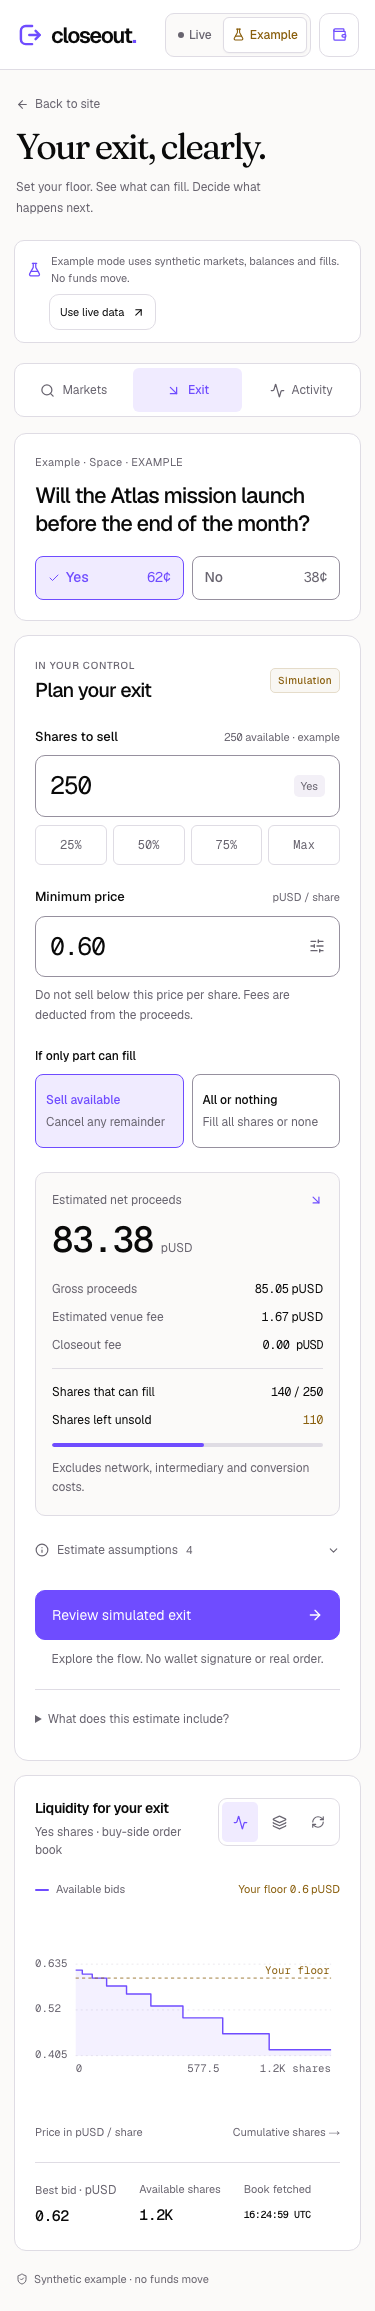
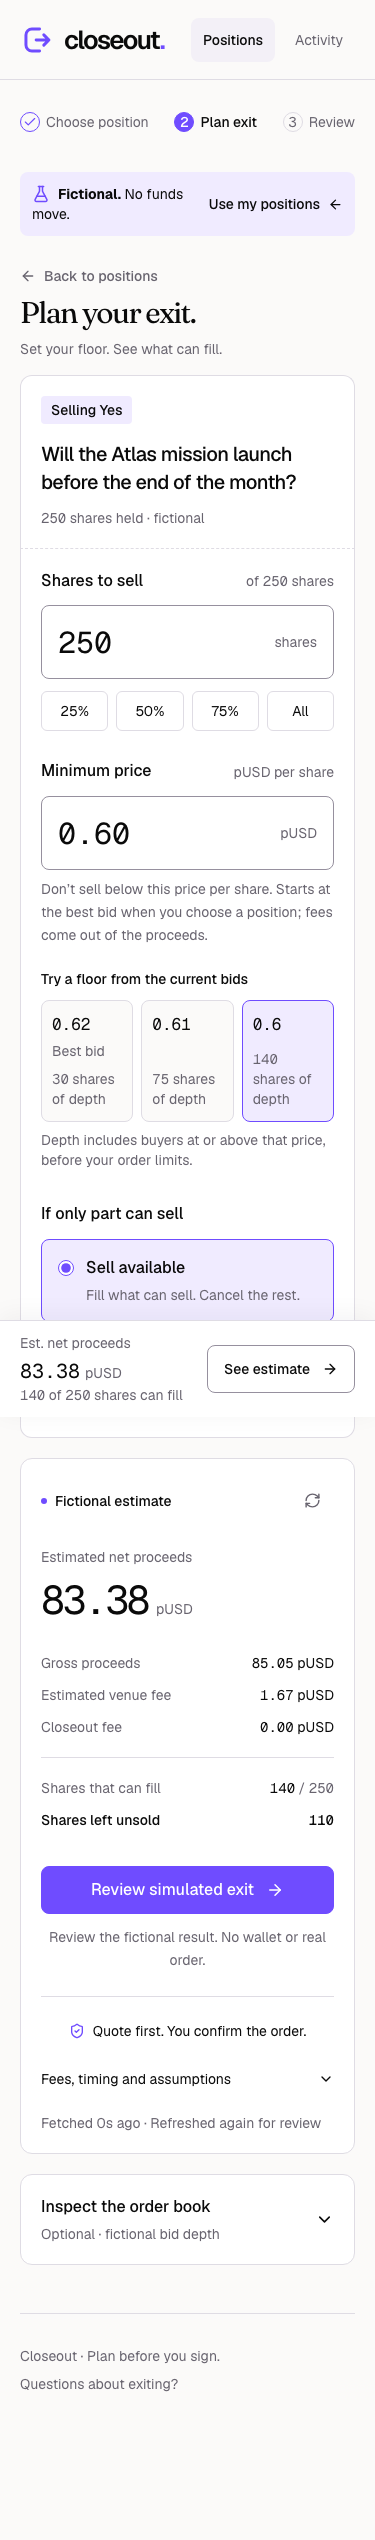
docs: explain the position-first workflow and refresh screenshots

diff --git a/docs/architecture.md b/docs/architecture.md
@@ -1,12 +1,12 @@
 # Closeout architecture
 
-This document describes the implementation in this repository as of September 12, 2026. Closeout helps an existing Polymarket account holder inspect bid depth, plan a sell within a gross price floor, and follow the order’s state. The product site explains that workflow; `/app` contains it.
+This document describes the implementation in this repository as of September 12, 2026. Closeout starts with an existing Polymarket position: import a public portfolio, choose what to sell, inspect bid depth, set a gross price floor, then review and follow the order’s state. The product site explains that workflow; `/app` contains it.
 
 Public reads, fictional examples and opening the wallet chooser have been exercised. End-to-end owner authentication and a real trade remain unverified. Implemented safeguards and mocked service tests do not establish successful live execution, final net proceeds or measured user savings.
 
 ## High-level design
 
-Closeout is one Next.js application with server-rendered product pages, a client-side workspace and three public-data route handlers. It has no application database, background worker, server order endpoint or Closeout smart contract.
+Closeout is one Next.js application with server-rendered product pages, a client-side workspace and four public-data route handlers. It has no application database, background worker, server order endpoint or Closeout smart contract.
 
 ```mermaid
 flowchart TB
@@ -16,7 +16,7 @@ flowchart TB
   UI["/app<br/>ExitWorkspace"]
   Hook["useExitWorkspace<br/>Selection, review, lifecycle orchestration"]
   Math["Pure exit model<br/>Decimal bid sweep + fee estimate"]
-  ReadAPI["Next GET routes<br/>markets / book / positions"]
+  ReadAPI["Next GET routes<br/>profile / positions / markets / book"]
   Sources["Public Polymarket providers<br/>Gamma / CLOB / Data API"]
   Wallet["Owner wallet<br/>Privy chooser or injected provider"]
   Session["Browser TradingSession<br/>Owner and account preflight"]
@@ -48,11 +48,12 @@ The server supplies public information, not trade authority. Authenticated venue
 | [ExitPreview](../src/components/exit-preview.tsx) | A small client interaction using the fictional Atlas book and the same quote calculation as the workspace. It does not authorize orders. |
 | [/app layout](../src/app/app/layout.tsx) | Mounts wallet infrastructure only within the trading destination. |
 | [/app page](../src/app/app/page.tsx) | Selects `example` only for the explicit `mode=example` value; otherwise selects `live`. A keyed [TradingWorkspace](../src/components/trading-workspace.tsx) initializes the controller. |
+| [/api/profile](../src/app/api/profile/route.ts) | Resolves a supported public profile input or connected-wallet address to a public position account. It does not establish ownership. |
 | [/api/markets](../src/app/api/markets/route.ts) | Public discovery, search or exact condition lookup. |
 | [/api/book](../src/app/api/book/route.ts) | Public book and market metadata, bound to a requested condition and outcome token. |
 | [/api/positions](../src/app/api/positions/route.ts) | Read-only positions for a public account address. |
 
-All three API routes are Node-runtime, GET-only, dynamic and `no-store`. They return input errors as 400 and upstream/normalization failures as 502. There is no server signing, approval, funding or order-placement route.
+All four API routes are Node-runtime, GET-only, dynamic and `no-store`. They return input errors as 400 and upstream/normalization failures as 502; profile resolution also returns an actionable 404 when no supported unique mapping can be established. There is no server signing, approval, funding or order-placement route.
 
 The shared theme lives in [globals.css](../src/app/globals.css). Tailwind CSS v4 utilities and `@apply` handle layout, spacing, typography and responsive rules; referenced component styles retain token-based illustrations and specific interaction selectors. Public-page client islands are limited to navigation and the local example. Loading the explanatory pages does not mount the `/app` wallet provider.
 
@@ -63,7 +64,9 @@ The shared theme lives in [globals.css](../src/app/globals.css). Tailwind CSS v4
 | Module | Owns | Does not own |
 | --- | --- | --- |
 | [types.ts](../src/lib/types.ts) | UI DTOs: `Market`, `OrderBook`, `Position`, `ExitQuote`, `TrackedOrder`, `WorkspaceController`. | Provider parsing, wallet authority or arithmetic. |
+| [account-profile.ts](../src/lib/account-profile.ts) | `AccountProfile`, input parsing, exact public-profile resolution and fixed-origin Gamma reads. | Ownership proof, session creation or guessing a proxy from an owner address. |
 | [public-data.ts](../src/lib/public-data.ts) | Fixed-origin fetches, query validation, exact numeric parsing, provider-to-DTO normalization, source identity checks. Its fetcher is injectable. | Authentication, trading or automatic source substitution. |
+| [recent-profile.ts](../src/lib/recent-profile.ts) | A validated, optional bookmark for the last successfully loaded public account. | Restoring positions, a trusted account mapping, a wallet connection or trade authority. |
 | [exit-plan.ts](../src/lib/exit-plan.ts) | Pure, non-mutating decimal bid sweep, fee model, order-type semantics and caller-supplied freshness policy. | Network, clock reads, wallet state, signatures or settlement assertions. |
 | [quote.ts](../src/lib/quote.ts) | Maps the domain plan into `ExitQuote`; applies the workspace’s age, tick, size, share-precision and accepting-orders checks. | Enforcing an after-fee receipt at the venue. |
 | [wallet-provider.tsx](../src/components/wallet-provider.tsx) | `TradingWalletContext`, explicit connection, Polygon selection, provider access and account/network invalidation. | Inferring that an arbitrary loaded portfolio is owned by the connected signer. |
@@ -71,7 +74,10 @@ The shared theme lives in [globals.css](../src/app/globals.css). Tailwind CSS v4
 | [order-status.ts](../src/lib/order-status.ts) | Pure reconciliation of a saved order against venue order/trade identities and confirmed quantities. | Treating acceptance as settlement or computing final net proceeds. |
 | [order-history.ts](../src/lib/order-history.ts) | Validation and bounded compaction of saved live-order records. | Storage transport, cross-tab locking or remote backup. |
 | [use-exit-workspace.ts](../src/hooks/use-exit-workspace.ts) | Orchestration: selection, data loading, review state, account session, persistence, polling, errors and export. Returns the screen controller. | Rendering or changing the venue’s execution semantics. |
-| [ExitWorkspace](../src/components/exit-workspace.tsx) | Responsive presentation, labeled inputs, depth view, dialogs and controller callbacks. | Direct SDK trading calls. |
+| [ExitWorkspace](../src/components/exit-workspace.tsx) | Entry/portfolio/plan/activity navigation and deliberate connection intent. | Account resolution, arithmetic or direct SDK trading calls. |
+| [journey/onboarding.tsx](../src/components/journey/onboarding.tsx) | Wallet/public-profile entry, portfolio states and position selection. | Inferring trade authority from public holdings. |
+| [journey/exit-planner.tsx](../src/components/journey/exit-planner.tsx) | Amount/floor controls, depth ladder, cost breakdown and next-action presentation. | Reserving liquidity or placing an order. |
+| [journey/review-dialog.tsx](../src/components/journey/review-dialog.tsx), [activity-view.tsx](../src/components/journey/activity-view.tsx), [primitives.tsx](../src/components/journey/primitives.tsx) | Review disclosure, order evidence and shared display primitives. | Authenticated venue access or settlement reconciliation. |
 
 ### Data contracts that carry financial meaning
 
@@ -84,13 +90,26 @@ The shared theme lives in [globals.css](../src/app/globals.css). Tailwind CSS v4
 
 ### Public read and planning flow
 
-1. The controller fetches market discovery/search, then a condition-bound outcome book. Request counters, abort handling and context keys prevent late results from updating a different selection or account.
-2. `public-data.ts` validates market, condition and token membership; book and metadata must agree on tick and minimum size. Duplicate levels, crossed books, conflicting market copies and mismatched positions fail instead of silently producing a quote.
-3. Provider requests use fixed origins/paths, omitted credentials, rejected redirects and a 12-second timeout. Response text is checked against a size limit before parsing; this is not a streaming body-size limiter.
-4. The model sorts a copy of eligible bids, consumes highest prices first and estimates the supplied fee per consumed level. `quote.ts` adds a 15-second maximum fetch age, minimum order size, allowed tick, nonzero floor and at most two decimals for shares.
-5. The visible book refreshes every 10 seconds while the document is visible, except during review or submission. The UI’s age clock updates every second. Review obtains a fresh book; an old preview never reserves liquidity.
+1. Live mode opens at portfolio entry, with no selected market or prefilled share amount. A user can connect an existing wallet to find its public account, or enter a Polymarket profile URL, handle or account address without connecting. Example mode opens a clearly fictional portfolio; it also requires an explicit position selection.
+2. `/api/profile` resolves the input before `/api/positions` reads that account's holdings. Profile errors and position-fetch errors are separate. Manual text remains intact for correction or retry; `resolvedInput` binds the normalized original entry to the account that it resolved, rather than requiring a profile URL to equal an address.
+3. Selecting a position looks up its condition, checks outcome-token membership and requests the matching book. The amount starts from that position's shares, rounded down to supported precision. Once bids arrive, an empty floor is initialized to the highest bid. A refresh preserves an edited floor. Redeemable positions link to venue redemption instead of open-market selling.
+4. `public-data.ts` validates market, condition and token membership; book and metadata must agree on tick and minimum size. Duplicate levels, crossed books, conflicting market copies and mismatched positions fail instead of silently producing a quote.
+5. The model sorts a copy of eligible bids, consumes highest prices first and estimates the supplied fee per consumed level. `quote.ts` adds a 15-second maximum fetch age, minimum order size, allowed tick, nonzero floor and at most two decimals for shares.
+6. The visible book refreshes every 10 seconds while the document is visible, except during review or submission. The UI's age clock updates every second. Review obtains a fresh book; a preview never reserves liquidity.
 
-Default discovery returns up to 40 markets. Public positions expose the first 100 supported rows with `hasMore`; the UI reports truncation. Redeemable positions are directed to venue redemption rather than submitted as open-market sells.
+Public positions expose the first 100 supported rows with `hasMore`; the UI reports truncation. The market endpoint also supports discovery/search, including up to 40 discovery results, but the position-first screen does not automatically select a discovery market on entry.
+
+#### Profile resolution and request identity
+
+For a connected wallet, Gamma must return a valid public profile mapping. The adapter never substitutes the signer EOA when that mapping is absent. For a manually entered raw address, a genuine upstream 404 permits reading that exact address with `resolvedFromProfile=false`; an upstream error or malformed successful response does not. Handles and profile URLs require one exact case-insensitive name match in a complete bounded search result, followed by a matching profile lookup. Conflicting mappings, fuzzy results and incomplete search pages are rejected. A mapping to a different address is also checked against that account's own profile. These are provider consistency checks, not cryptographic ownership proof.
+
+Both public adapters use fixed origins/paths, omitted credentials, rejected redirects and a 12-second timeout per upstream request. `account-profile.ts` enforces a streamed body-size bound. `public-data.ts` checks response text against a size limit before parsing; it is not a streaming body-size limiter. Arbitrary user-supplied URLs are never fetched.
+
+The controller keeps public and execution contexts separate. A book request is bound to mode, condition and outcome token, so connecting a signer does not discard an otherwise-current public read. Manual profile/position requests and position selection are likewise independent of signer changes. A connected-wallet lookup additionally checks that the initiating signer remains current. Request generations invalidate superseded inputs, mode changes and selections. While a position is loading, review and step navigation are blocked. Live review still binds the complete mode, token, signer, account and order-input context.
+
+#### Recent-profile preference
+
+After a successful portfolio load, `closeout-recent-profile-v1` stores only the account address and optional display labels in browser `localStorage`. Resuming it performs a fresh public profile and positions lookup. It does not restore holdings, a session, a selected plan or authority, and the user can forget it. Invalid or unavailable preference storage is ignored; it does not share the fail-closed contract of live order-history storage.
 
 ### Review, authorization and submission
 
@@ -155,7 +174,7 @@ Compaction retains every unresolved record and fills the remaining capacity with
 
 | Boundary | Enforced behavior and practical limit |
 | --- | --- |
-| Public address → authority | Portfolio lookup never authorizes a trade. Owner signer and account relationship are checked separately. |
+| Public profile/address → authority | Imported holdings and saved profile labels never authorize a trade. Owner signer and account relationship are checked separately. |
 | Provider response → financial model | Runtime normalization checks identity, precision and constraints. A recent fetch still cannot prove future liquidity or feed completeness. |
 | Review → order | Reviewed input/context and age are checked, then an explicit signed sell is submitted. The gross floor is not an all-in net-return guarantee. |
 | Browser → venue | Geography is checked from the user’s browser. Blocked or unknown status disables submission; the server does not reroute orders. |
@@ -179,6 +198,6 @@ Useful next extensions are narrowly defined: paginate positions without hiding c
 
 ## Verification and code navigation
 
-The relevant tests are colocated with the financial boundaries: [exit-plan tests](../src/lib/exit-plan.test.ts), [quote tests](../src/lib/quote.test.ts), [provider normalization tests](../src/lib/public-data.test.ts), [trading-service tests](../src/lib/trading-client.test.ts), [reconciliation tests](../src/lib/order-status.test.ts) and [history tests](../src/lib/order-history.test.ts). Service tests mock wallet/SDK interactions; they do not prove a live wallet or trade.
+The relevant tests are colocated with the boundaries: [profile resolution tests](../src/lib/account-profile.test.ts), [exit-plan tests](../src/lib/exit-plan.test.ts), [quote tests](../src/lib/quote.test.ts), [provider normalization tests](../src/lib/public-data.test.ts), [trading-service tests](../src/lib/trading-client.test.ts), [reconciliation tests](../src/lib/order-status.test.ts) and [history tests](../src/lib/order-history.test.ts). Service tests mock wallet/SDK interactions; they do not prove a live wallet or trade.
 
 With a local server already running, [browser-smoke.mjs](../scripts/browser-smoke.mjs) exercises the explicit example, selected failure states and responsive workspace; [privy-smoke.mjs](../scripts/privy-smoke.mjs) checks the real chooser without selecting or authenticating a wallet; [site-smoke.mjs](../scripts/site-smoke.mjs) checks the public journey and example entry. See [verification](verification.md) for dated results and their scope. `npm test`, `npm run typecheck` and `npm run build` are the project checks; current outputs belong in verification evidence rather than permanent architecture claims.

diff --git a/docs/execution-integration.md b/docs/execution-integration.md
@@ -1,6 +1,6 @@
 # Execution integration
 
-The [/app workspace](https://closeout-ashen.vercel.app/app) reads public markets and plans a sell exit without authentication. Live execution uses an existing owner-controlled Polymarket account, an explicit review and the connected wallet. Example mode is separate and produces fictional activity only.
+The [/app workspace](https://closeout-ashen.vercel.app/app) starts with a public portfolio, then lets the user choose a position and plan a sell exit. Public lookup and planning need no authentication. Live execution uses an existing owner-controlled Polymarket account, an explicit review and the connected wallet. Example mode starts with a fictional portfolio and produces fictional activity only.
 
 Actual wallet authentication, signatures, live order submission, cancellation, approvals and funded execution remain unvalidated. The implementation has fixture coverage; public reads and the real Privy chooser have separate browser checks. Final live net proceeds remain unreconciled. See [verification](verification.md).
 
@@ -15,24 +15,42 @@ Two details depend on the pinned runtime:
 - `AssetType` comes from `@polymarket/bindings/clob`; importing it from the client package's declarations did not provide a usable runtime export. Balance reads use `fetchBalanceAllowance` from the client's actions package.
 - `resolveExitExchange` follows the pinned SDK's token-namespace and negative-risk selector for its three exchange routes. It validates addresses from the runtime production configuration and fails closed if that configuration changes. It has no hardcoded fallback address.
 
+## Public account discovery
+
+The [profile route](../src/app/api/profile/route.ts) accepts `input` and `source=manual|wallet`, returning `{profile: {accountAddress, displayName, username, resolvedFromProfile}}`. Its [adapter](../src/lib/account-profile.ts) makes credential-free requests only to fixed Gamma endpoints. It does not create a secure SDK client.
+
+| Entry | Resolution rule |
+| --- | --- |
+| Connected-wallet address, `source=wallet` | A valid public profile mapping is required. Missing mapping is an actionable error, never a fallback to the signer address. |
+| Manual account address | Use the verified provider mapping when available. Only a genuine profile 404 allows lookup of the exact entered address with `resolvedFromProfile=false`. |
+| Manual handle or `polymarket.com/@profile` URL | Require exactly one case-insensitive name match in a complete bounded search result, then verify the matching account through its public profile. Ambiguous, partial or conflicting results require an account address instead. |
+
+Gamma's raw profile field is `proxyWallet`; the pinned SDK calls its normalized field `wallet`. Closeout reads the raw field and validates provider consistency. This naming distinction does not establish whether the connected signer owns that account. See the official [public-profile endpoint](https://docs.polymarket.com/api-reference/profiles/get-public-profile-by-wallet-address) and [search endpoint](https://docs.polymarket.com/api-reference/search/search-markets-events-and-profiles).
+
+After resolution, `/api/positions` loads public holdings. Selecting a position resolves its market through `/api/markets` and its outcome book through `/api/book`. These four GET routes do not sign or submit. Manual input remains the original profile string; `resolvedInput` binds that normalized entry to the resolved account, including when a later positions request fails. A recent-profile bookmark stores only a public address and labels; resuming it performs a fresh lookup.
+
+Public reads can continue independently of the signer. A connected-wallet lookup is tied to the initiating wallet, while a manually imported portfolio is not replaced merely because another wallet connects for review. An imported account can be inspected without being tradable by that signer.
+
 ## Account authorization
 
-A public position lookup accepts an account address; it does not establish execution authority. Session creation checks the connected signer on Polygon, verifies deployed code when the account differs from the signer, and requires the SDK to resolve the exact account/signer pair as `OWNER`. Session-key mappings are unsupported.
+Session creation checks the connected signer on Polygon, verifies deployed code when the account differs from the signer, and requires the SDK to resolve the exact account/signer pair as `OWNER`. Session-key mappings are unsupported. A successful public profile lookup does not satisfy this check.
 
 The adapter supplies the existing account explicitly and rejects SDK `sendTransaction` requests. Closeout does not deploy account wallets or grant missing trading approvals. The user must complete those prerequisites on the venue. See the [official wallet and authentication model](https://docs.polymarket.com/trading/wallets-auth).
 
-The [wallet provider](../src/components/wallet-provider.tsx) supports Privy external wallets or an injected provider. Authentication happens only through an explicit review action and may request a signature. Account, chain or disconnect events invalidate the session. The adapter rechecks the account and Polygon chain after signing, before submission. Credentials remain within the in-memory session.
+The [wallet provider](../src/components/wallet-provider.tsx) supports Privy external wallets or an injected provider. Connection opens the wallet chooser directly; it is separate from venue authentication. The current connection flow selects Polygon and can request a network switch. Venue authentication happens only through an explicit review action and may request a signature. Account, chain or disconnect events invalidate the session. The adapter rechecks the account and Polygon chain after signing, before submission. Credentials remain within the in-memory session.
 
 ## Review and submission flow
 
-1. Public market, book and fee data produce an indicative quote through the [quote engine](../src/lib/quote.ts).
-2. Review authenticates the owner session, reads available holdings and approvals, fetches fresh public inputs and rebuilds the quote.
+1. The user selects an imported or sample position. Its shares initialize the amount at supported precision; the first book initializes an empty floor to the best bid. The user can edit either. There is no automatically selected market or arbitrary initial trade size.
+2. Public book and fee data produce an indicative quote through the [quote engine](../src/lib/quote.ts). Review is blocked while position selection is pending. Live review authenticates the owner session, reads available holdings and approvals, fetches fresh public inputs and rebuilds the quote.
 3. Confirmation checks that the selected market, inputs and wallet context still match the review. A quote older than 15 seconds must be reviewed again; age uses fetch time rather than the last time the book changed.
 4. The [workspace controller](../src/hooks/use-exit-workspace.ts) acquires an account execution lock and saves an intent before a live submission.
 5. The adapter checks geographic eligibility from the user's browser, current unreserved shares, approvals, minimum order size and tick alignment. It creates and signs a `SELL` market order with the share quantity, minimum price and FAK or FOK mode, then posts once.
 6. Activity retains the response and reconciles the exact order and related trades. An accepted response is not treated as confirmed settlement.
 
 The minimum price is a gross price per share, not a guaranteed final net receipt. FAK permits an immediate partial fill and cancels the unfilled remainder; FOK requires the full quantity or no fill. Closeout does not expose resting GTC/GTD orders. See [official order semantics](https://docs.polymarket.com/trading/place-orders) and [exit math](exit-math.md).
+
+Public book requests are keyed by mode, condition and outcome token. Review and confirmation retain the stronger mode/token/signer/account binding plus exact amount, floor and order type. Changes invalidate the reviewed plan rather than transferring permission to the newly selected position.
 
 ## Financial checks
 

diff --git a/README.md b/README.md
@@ -10,7 +10,7 @@
 
 The market price is a single number. Selling your whole position is a different question.
 
-**Closeout helps Polymarket traders see what could sell, what fees take, and what stays unsold.** Read the bids, choose a minimum price per share, and review an exit from the wallet that owns your position.
+**Closeout helps Polymarket traders see what could sell, what fees take, and what stays unsold.** Bring your public portfolio, choose a position, and see an exit plan before authorizing an order.
 
 [Website](https://closeout-ashen.vercel.app) · [Open app](https://closeout-ashen.vercel.app/app) · [Try an example](https://closeout-ashen.vercel.app/app?mode=example) · [How it works](https://closeout-ashen.vercel.app/how-it-works)
 
@@ -22,13 +22,18 @@ A displayed price does not tell you how much of a position can fill at that pric
 
 | Step | What you get |
 | --- | --- |
-| **Find your position** | Search live markets or inspect an account's public holdings. |
-| **Set your floor** | Choose shares to sell and a minimum gross price per share. |
+| **Bring your portfolio** | Connect the wallet you use with Polymarket, or paste a public profile link or account address. |
+| **Choose a position** | Start with the shares actually held. Public lookup needs no signature. |
+| **Set your floor** | Begin at the current best bid. Adjust the share amount or minimum gross price deliberately. |
 | **See the tradeoff** | Estimated proceeds, venue fees, fillable shares and shares left unsold. |
 | **Choose the behavior** | Sell available shares at your floor, or require the entire quantity to fill. |
 | **Review and follow** | Refresh the plan, authorize from the owner wallet, and track the order's outcome. |
 
-The homepage includes a working preview powered by the same decimal quote engine as the app. Change the floor and the eligible depth changes with it.
+The app opens with portfolio lookup, not a prefilled order. Errors stay beside the editable input; a recently viewed public profile can be looked up again on the next visit. A separate sample journey lets anyone try the planner without a wallet.
+
+![Closeout asks for a wallet or public Polymarket profile before loading positions](docs/images/onboarding.png)
+
+The homepage also includes a working preview powered by the same decimal quote engine. Change the floor and the eligible depth changes with it.
 
 <details open>
 <summary><strong>The exit workspace</strong></summary>
@@ -48,7 +53,7 @@ In this **fictional example**, 250 shares at a 0.60 pUSD floor have 140 shares o
 
 ## Architecture
 
-The public website explains the product without initializing a wallet. The trading workspace has its own provider boundary. Three server routes read public market data; signing and order submission happen in the browser.
+The public website explains the product without initializing a wallet. The trading workspace has its own provider boundary. Four server routes read public identity and market data; signing and order submission happen in the browser.
 
 ```mermaid
 flowchart TB
@@ -56,7 +61,7 @@ flowchart TB
   PREVIEW["Interactive example"]
   APP["Exit workspace /app"]
   QUOTE["Decimal quote engine"]
-  API["Public GET routes<br/>Markets · Book · Positions"]
+  API["Public GET routes<br/>Profile · Positions · Markets · Book"]
   DATA["Venue public APIs"]
   WALLET["Existing owner wallet"]
   TRADE["Preflight · Sign · Submit"]
@@ -112,7 +117,7 @@ npm ci
 npm run dev
 ```
 
-Open [localhost:3000](http://localhost:3000) for the website, or [/app?mode=example](http://localhost:3000/app?mode=example) for the fictional workspace. Public browsing and planning need no key or wallet.
+Open [localhost:3000](http://localhost:3000) for the website. In [/app](http://localhost:3000/app), paste a public Polymarket profile to inspect holdings without a wallet, or use [/app?mode=example](http://localhost:3000/app?mode=example), choose the fictional Atlas position, and try a different floor. Public lookup and planning need no key or wallet.
 
 For the Privy chooser, copy `.env.example` to `.env.local`, set `NEXT_PUBLIC_PRIVY_APP_ID`, enable wallet authentication, and allow your exact origin. **No app secret is needed.** Without an App ID, the workspace supports an injected Ethereum wallet. See [wallet setup](docs/privy-setup.md) and [deployment](docs/deployment.md).
 
@@ -130,7 +135,7 @@ npm run test:browser
 npm run test:privy  # requires a configured public Privy App ID
 ```
 
-The September 12 redesign passed **209 unit/service tests**, **25 site checks**, **13 workspace checks**, and **4 actual Privy chooser checks**. The [GitHub workflow](.github/workflows/checks.yml) runs the locked install, unit tests, formatting check and production build. Browser suites run separately and save reports under ignored `.artifacts/qa/`. [Verification scope and reproduction](docs/verification.md).
+The September 12 onboarding release passed **282 unit/service tests**, **26 site checks**, **18 journey checks**, and **4 actual Privy chooser checks**. The journey suite covers editable lookup failures, stale responses, real holding quantities, returning profiles, unavailable books and the full sample path. The [GitHub workflow](.github/workflows/checks.yml) runs the locked install, unit tests, formatting check and production build. Browser suites run separately and save reports under ignored `.artifacts/qa/`. [Verification scope and reproduction](docs/verification.md).
 
 **Execution status:** public reads, planning and fictional fills are exercised. Actual owner authentication, signing, live orders and cancellations have not been validated end to end. Final live `netReceipt` remains unknown until proceeds reconciliation is implemented. Closeout does not deploy accounts, change approvals, or move deposits and withdrawals.
 
@@ -143,8 +148,10 @@ src/
     product/              product explanation
     how-it-works/         workflow and questions
     app/                  trading route and wallet boundary
-    api/                  public market, book and position reads
-  components/             site, preview, workspace and wallet UI
+    api/                  public profile, position, market and book reads
+  components/
+    journey/              onboarding, portfolio, planner, review and activity
+                          site, preview, workspace shell and wallet UI
   hooks/                  account, review and order coordination
   lib/                    decimal math, data adapters and order services
 scripts/                  browser checks and brand-asset generation
@@ -156,6 +163,7 @@ docs/                     architecture, math, integration and operations
 
 | Public endpoint | Purpose |
 | --- | --- |
+| `GET /api/profile?input=...&source=manual` | Resolve an exact public profile or position-account address. Wallet lookup uses `source=wallet`. |
 | `GET /api/markets?q=...` | Discover markets; `conditionId` supports exact lookup. |
 | `GET /api/book?tokenId=...&conditionId=...` | Read an outcome book bound to its market. |
 | `GET /api/positions?account=0x...` | Read public holdings with pagination-limit metadata. |

diff --git a/brand.md b/brand.md
@@ -1,12 +1,12 @@
 # Closeout brand
 
-Status: selected by Mohit, September 12, 2026. Reference: [AgentTrust](https://www.agenttrust.tech/), another product owned by Mohit. This replaces the earlier dark/lime direction at his explicit request. The previous theme is preserved in Git and local `.bak` files.
+The visual system follows a warm, editorial direction inspired by [AgentTrust](https://www.agenttrust.tech/). Shared tokens, typography and the Closeout mark connect the product website to the position-first workspace.
 
-Closeout helps prediction-market traders understand and control an exit from an existing position. The public website explains that decision; the dedicated planner is an efficient financial workspace.
+Closeout helps prediction-market traders understand and control an exit from an existing position. The public website explains the decision. The workspace guides the user through choosing a position, planning its exit and reviewing the order.
 
 ## Direction
 
-Warm editorial finance: paper-white surfaces, deep ink, restrained violet, serif display headings and precise sans-serif controls. Public pages have generous space and varied section structure. The planner uses compact, clearly grouped panels. Default and current product theme is light. Dark mode is not exposed as a half-finished option.
+Warm editorial finance: paper-white surfaces, deep ink, restrained violet, serif display headings and precise sans-serif controls. Public pages have generous space and varied section structure. The workspace reveals detail as it becomes useful: entry, portfolio, exit plan, review and activity. Each stage has one clear next action. The product theme is light.
 
 ## Colors
 
@@ -27,20 +27,26 @@ Warm editorial finance: paper-white surfaces, deep ink, restrained violet, serif
 | Warning | `#895e0c` | Readable warning text |
 | Danger | `#b63726` | Readable errors |
 
-AgentTrust's original translucent muted text and amber are darkened here for small financial labels. Color is never the sole distinction between order states. Color variables are defined in `src/app/globals.css`; the workspace maps those tokens through its `--co-*` aliases.
+Supporting text and warning colors are darkened for small financial labels. Color is never the sole distinction between order states. Color variables are defined in [globals.css](src/app/globals.css); the workspace uses those tokens through Tailwind utilities and its scoped [journey styles](src/components/exit-workspace.css).
 
 ## Type and identity
 
 - Fraunces: editorial display headings, 400–500 weight; selective italics.
-- Geist: UI/body and wordmark, 400/500/600; tabular financial numerals.
-- Geist Mono: small structural labels and identifiers, never long paragraphs.
+- Geist: UI/body and wordmark, 400/500/600.
+- Geist Mono: tabular financial numerals, small structural labels and identifiers, never long paragraphs.
 - Fonts are served by Next's self-hosted font pipeline.
-- The custom mark combines an open C with a rightward exit arrow. `src/components/brand.tsx` is the inline UI mark. `src/app/icon.svg` is the compact app mark, with generated ICO/Apple/PNG/social variants.
+- The custom mark combines an open C with a rightward exit arrow. [brand.tsx](src/components/brand.tsx) is the inline UI mark. [icon.svg](src/app/icon.svg) is the compact app mark, with generated ICO/Apple/PNG/social variants.
 
 ## Voice and interaction
 
 Lead with the trader's decision and the actual product. Use plain, useful language: price floor, fees, fillable shares, unsold shares. Keep technical details on engineering pages unless they change a user's decision. Do not fabricate adoption, returns, counterparties, endorsements, completed trades or product-market fit.
 
-Primary action opens `/app`; secondary action opens `/app?mode=example`. The latter starts explicitly in fictional mode. Browsing needs no wallet; authorization belongs at the trading decision. Native links/buttons, visible focus, touch targets and reduced-motion support are required.
+Primary action opens `/app`; secondary action opens `/app?mode=example`. Live entry offers connection to find a wallet's public positions or manual profile/account lookup. Example entry opens a fictional portfolio for explicit selection. Neither starts with an arbitrary market or trade amount.
+
+An imported portfolio is described as read-only. A connected wallet, a remembered profile and an authorized trading account are distinct states. The direct wallet chooser belongs to the connection action; the review dialog belongs to the trading decision. Recent-profile convenience must always mean a fresh lookup, never a silently restored session.
+
+Show loading, empty results, failed lookups and blocked execution with a specific recovery action. Keep the original manual entry available after an error. In the planner, show gross proceeds, estimated venue fees, estimated net and unsold shares together. Explain that the floor is a gross price per share and that a snapshot cannot guarantee a fill. After submission, show order evidence rather than treating acceptance as completion.
+
+Native links/buttons, visible focus, touch targets and reduced-motion support are required. Stage changes move focus to the new heading. Navigation is locked during position selection, review loading and submission; financial context must not change underneath review.
 
 Motion: short state feedback and one restrained desktop entrance. No scrolling lock, fake carousel, decorative auto-playing video, or motion on every quote refresh. Illustrative financial data is labeled, and the homepage preview uses the real decimal quote engine against a fixed fictional book.

diff --git a/docs/privy-setup.md b/docs/privy-setup.md
@@ -1,6 +1,6 @@
 # Privy setup
 
-Closeout uses Privy to connect an existing external Ethereum wallet in the [/app workspace](https://closeout-ashen.vercel.app/app). The provider is mounted only on that route. Connecting a wallet does not authenticate a Polymarket trading session or prove ownership of an address entered for position lookup.
+Closeout uses Privy to connect an existing external Ethereum wallet in the [/app workspace](https://closeout-ashen.vercel.app/app). The provider is mounted only on that route. Public profile import and exit planning work without a connection. Connecting a wallet does not authenticate a Polymarket trading session or prove ownership of an imported account.
 
 ## Configure an application
 
@@ -15,9 +15,13 @@ Allowed origins include the scheme and exact development port, but no `/app` pat
 
 ## Application behavior
 
-The [wallet provider](../src/components/wallet-provider.tsx) configures wallet-only login, Ethereum external wallets, Polygon as the trading chain and no automatic embedded-wallet creation. It exposes an EIP-1193 provider to the workspace. Account or chain changes invalidate the active execution context.
+The [wallet provider](../src/components/wallet-provider.tsx) configures wallet-only login, Ethereum external wallets, Polygon as the trading chain and no automatic embedded-wallet creation. It exposes an EIP-1193 provider to the workspace. The current connection flow selects Polygon and can request a network switch. Account or chain changes invalidate the active execution context.
 
-Closeout closes its native wallet dialog before opening Privy's separate chooser so the modal layers do not overlap. The chooser establishes connection only. The user separately reviews and authorizes the venue session, and the [trading adapter](../src/lib/trading-client.ts) checks the signer/account relationship before execution.
+The entry action opens Privy's chooser directly. Closeout does not put a separate native wallet dialog in front of it. After a deliberate entry connection, the workspace asks `/api/profile` to resolve that wallet's public position account, then loads `/api/positions`. No profile mapping means an error with the manual import path available; Closeout never silently treats the connected EOA as its Polymarket account.
+
+The alternative entry accepts a public profile URL, handle or account address. It needs no Privy session, and it is appropriate for inspecting a profile originally created through another login method. It does not import an email account, request login details or recover access to a wallet. Connecting later from the planner preserves that imported account. The user separately reviews and authorizes the venue session, and the [trading adapter](../src/lib/trading-client.ts) checks the exact signer/account relationship before execution.
+
+The optional recent-profile preference is a browser-local public-account bookmark. Resuming it starts a fresh public lookup; it does not reconnect the wallet or restore authentication. See [architecture](architecture.md) for request identity, storage and authority boundaries.
 
 ## Verification
 

diff --git a/docs/verification.md b/docs/verification.md
@@ -4,13 +4,13 @@ The automated suites verify different boundaries. Passing a fixture or opening a
 
 ## Current coverage
 
-The September 12, 2026 redesign passed the following local checks:
+The position-first onboarding release is checked with the following suites:
 
 | Suite | Result | What it covers |
 | --- | --- | --- |
-| Vitest | 209 tests in 6 files | Decimal quotes, public parsing, preflight, order status, history and trading adapter behavior. Provider and SDK interactions are mocked. |
-| Site smoke | 25 checks | Public routes, navigation, keyboard focus, FAQs, interactive quote preview, intentional example entry, responsive layout and icon/social assets. |
-| Workspace smoke | 13 checks | Controlled live-read failure and retry, example planning, FAK/FOK, review, fictional partial fill, activity export and responsive controls. |
+| Vitest | 282 tests in 7 files | Exact public-profile resolution, decimal quotes, public parsing, preflight, order status, history and trading adapter behavior. Provider and SDK interactions are mocked. |
+| Site smoke | 26 checks | Public routes, navigation, keyboard focus, FAQs, interactive quote preview, intentional example entry, responsive layout and icon/social assets. |
+| Workspace smoke | 18 checks | Fresh entry without arbitrary market data, editable lookup errors, actual position quantities, stale-response rejection, recent public-profile lookup, book recovery, sample planning, FAK/FOK, review, fictional partial fill, activity export and responsive controls. |
 | Privy smoke | 4 checks | Actual public app config, actionable wallet chooser, dismissal/reopening and absence of account or order actions. |
 | Build | Passed | Next.js compilation, generated routes and TypeScript checking. |
 
@@ -49,7 +49,7 @@ BASE_URL=https://closeout-ashen.vercel.app QA_LABEL=production npm run test:site
 BASE_URL=https://closeout-ashen.vercel.app QA_LABEL=production npm run test:privy
 ```
 
-Reports and raw screenshots are written to `.artifacts/qa/`, which is ignored by Git and excluded from deployment. `QA_LABEL` distinguishes site and Privy runs; the workspace suite replaces its latest `browser-smoke.json` and associated captures. Curated README images live in `docs/images/` and show the actual production build using fictional example data.
+Reports and raw screenshots are written to `.artifacts/qa/`, which is ignored by Git and excluded from deployment. `QA_LABEL` distinguishes each suite's runs and associated captures. Preserve failed reports under a different label when rerunning a fix. Curated README images live in `docs/images/` and show the actual production build. Planner screenshots use clearly fictional sample data.
 
 ## What remains unverified
 

diff --git a/docs/deployment.md b/docs/deployment.md
@@ -4,7 +4,7 @@ The canonical site is [closeout-ashen.vercel.app](https://closeout-ashen.vercel.
 
 ## Hosting and configuration
 
-Closeout is a Next.js application deployed on Vercel. Use Node.js 24 or later, `npm ci` and `npm run build`. The public market, book and position API routes require a server runtime; a static export is insufficient. See [architecture](architecture.md) for route boundaries.
+Closeout is a Next.js application deployed on Vercel. Use Node.js 24 or later, `npm ci` and `npm run build`. The public profile, position, market and book API routes require a server runtime; a static export is insufficient. See [architecture](architecture.md) for route boundaries.
 
 `NEXT_PUBLIC_PRIVY_APP_ID` is the optional public browser identifier shown in [the environment template](../.env.example). With it, the workspace offers the configured Privy external-wallet chooser. Without it, the workspace uses an injected Ethereum provider. This integration needs no Privy app secret, builder secret or server wallet key. Changes to the public identifier require a rebuild.
 
